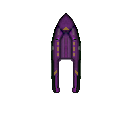
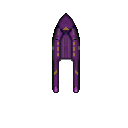
shuttles

Changed region(s): [[0.5625, 0.3125, 0.6562, 0.7188], [0.375, 0.3125, 0.4688, 0.7188]]

diff --git a/source/server/model/ships/Shuttle.php b/source/server/model/ships/Shuttle.php
@@ -1316,7 +1316,7 @@ class ShuttleOrieni extends Shuttle
         parent::setShuttleDefaults();
         $this->phpclass = "ShuttleOrieni";
         $this->shipClass = "Shuttle";
-        $this->faction = "Centauri Republic";
+        $this->faction = "Orieni Imperium";
         $this->forwardDefense = 11;
         $this->sideDefense = 11;
         $this->freethrust = 3;
